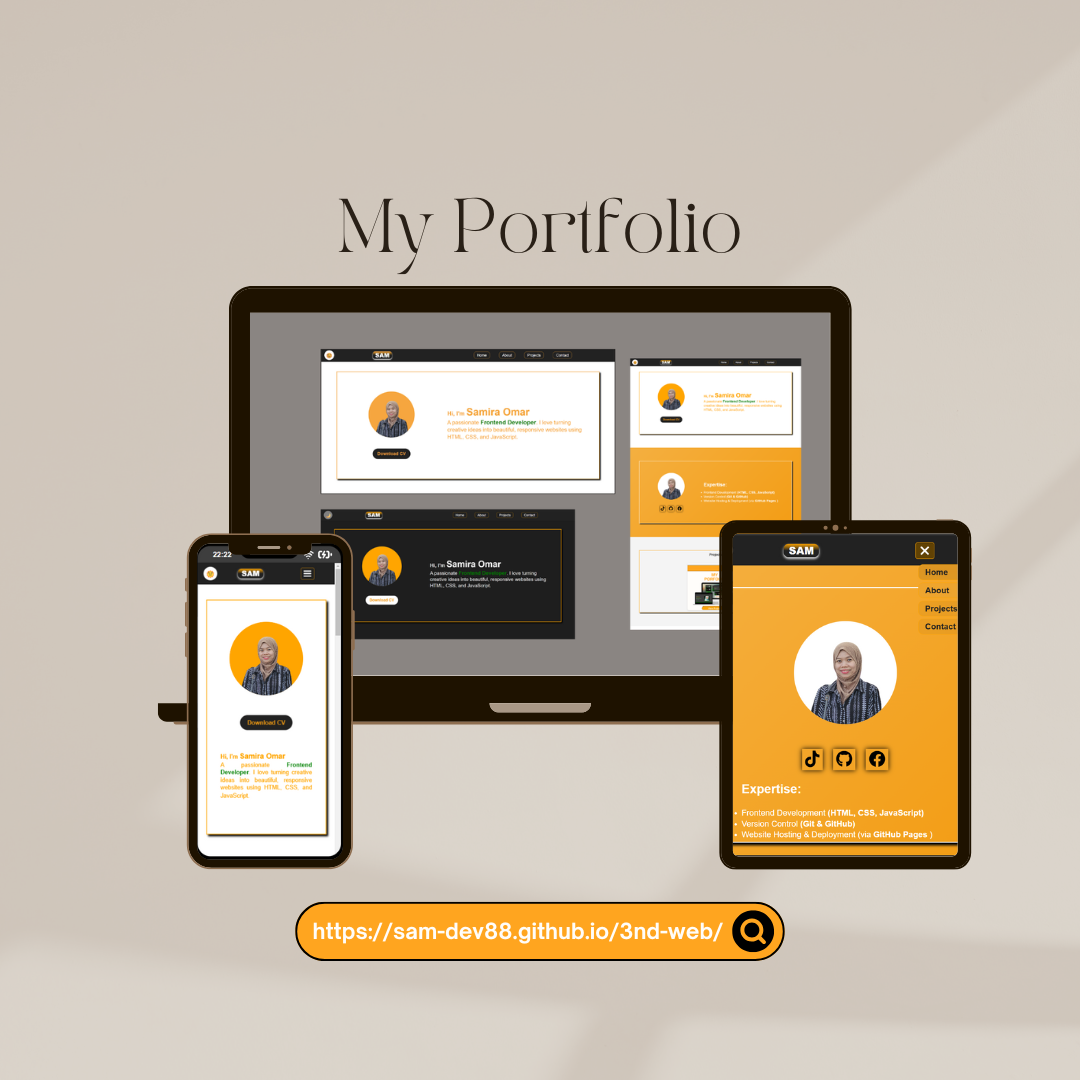
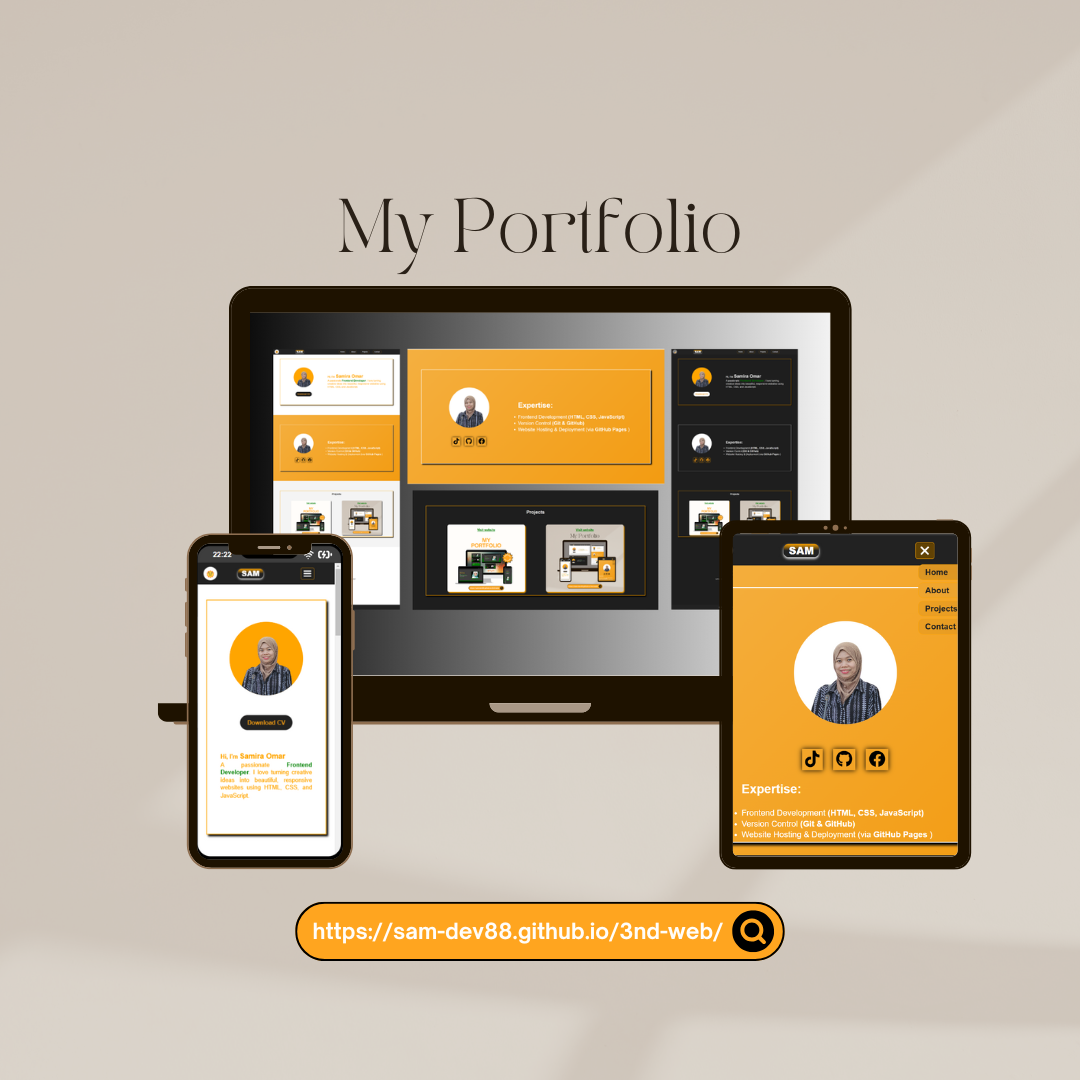
html,css

Changed region(s): [[0.2139, 0.275, 0.7944, 0.6417]]

diff --git a/style.css b/style.css
@@ -442,7 +442,7 @@ body.dark-mode #projects .project-box,body.dark-mode #projects .project-box2 {
   padding: 10px;
   box-shadow: 4px 5px 5px black;
   border-radius: 10px;
-  margin: 1% auto;
+  margin: 1rem;
   width: 40%;
   height: 60vh;
   transition: transform 0.6s ease-in-out;
@@ -454,7 +454,7 @@ body.dark-mode #projects .project-box,body.dark-mode #projects .project-box2 {
   background-image: url(photos/3rd-web-project.png);
 }
 .project-box:hover,.project-box2:hover {
-  transform: translateY(-15px);
+  transform: translateY(-10px);
 }
 
 .project-container {
@@ -538,11 +538,9 @@ footer {
   }
   .project-box,
   .project-box2 {
-    width: 80%;
+    margin: 0 auto;
+    width: 90%;
     height: 30vh;
-  }
-  .project-box2 {
-    background-image: url(photos/mobile-project.png);
   }
   .view-btn {
     display: none;
